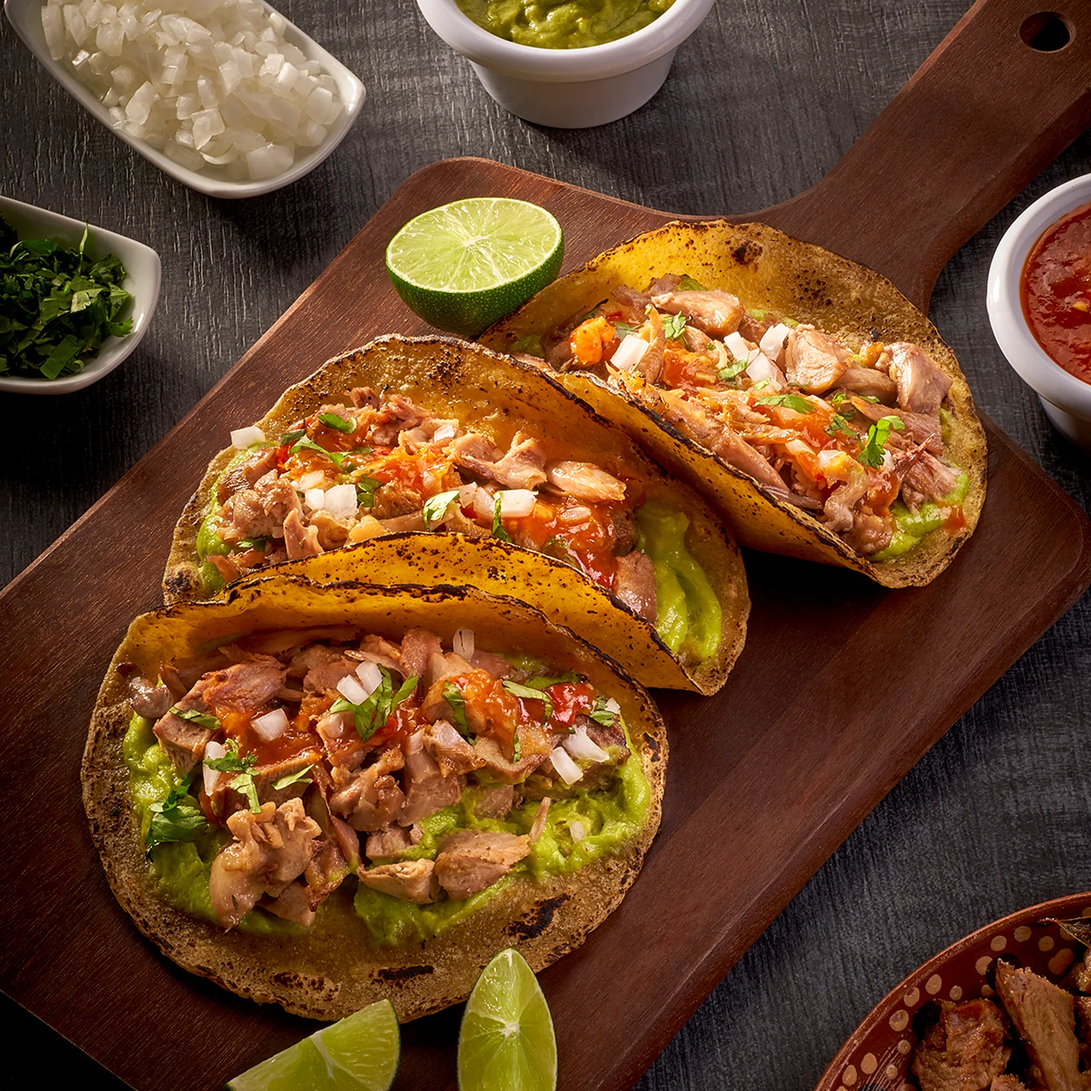
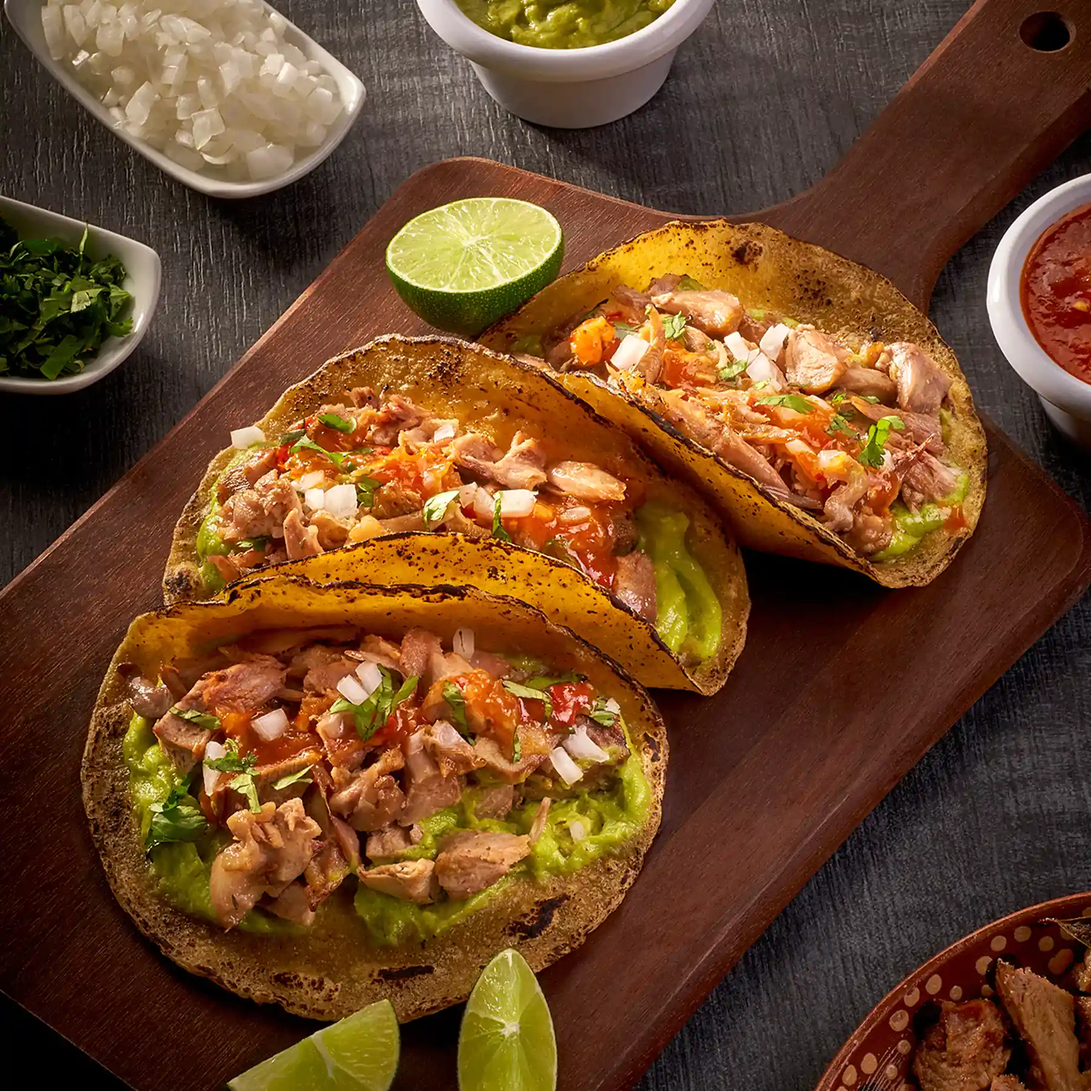
Actualizacion de imagenes y correcciones en el meta

diff --git a/index.html b/index.html
@@ -4,6 +4,18 @@
     <meta charset="UTF-8" />
     <meta http-equiv="X-UA-Compatible" content="IE=edge" />
     <meta name="viewport" content="width=device-width, initial-scale=1.0" />
+    <meta
+      name="description"
+      content="Restaurante Mexicano, con platillos tradicionales Mexicanos, servicio a domicilio y servicio para eventos especiales. En los mejores eventos."
+    />
+    <meta
+      property="og:title"
+      content="Restaurante mexicano | Servicio de comida para eventos | Servicio de comida a domicilio | Restaurante de comida mexicana "
+    />
+    <meta
+      property="og:description"
+      content="Restaurante Mexicano, con platillos tradicionales Mexicanos, servicio a domicilio y servicio para eventos especiales. En los mejores eventos."
+    />
     <title>Carnitas Joseles</title>
     <link rel="stylesheet" href="css/normalize.css" />
     <link rel="stylesheet" href="index.css" />

diff --git a/css/main.css b/css/main.css
@@ -1,6 +1,6 @@
 main {
   height: 100vh;
-  background-image: url("../assets/main_image.png");
+  background-image: url("../assets/main_image.jpg");
   background-repeat: no-repeat;
   background-size: cover;
   background-position: bottom;
